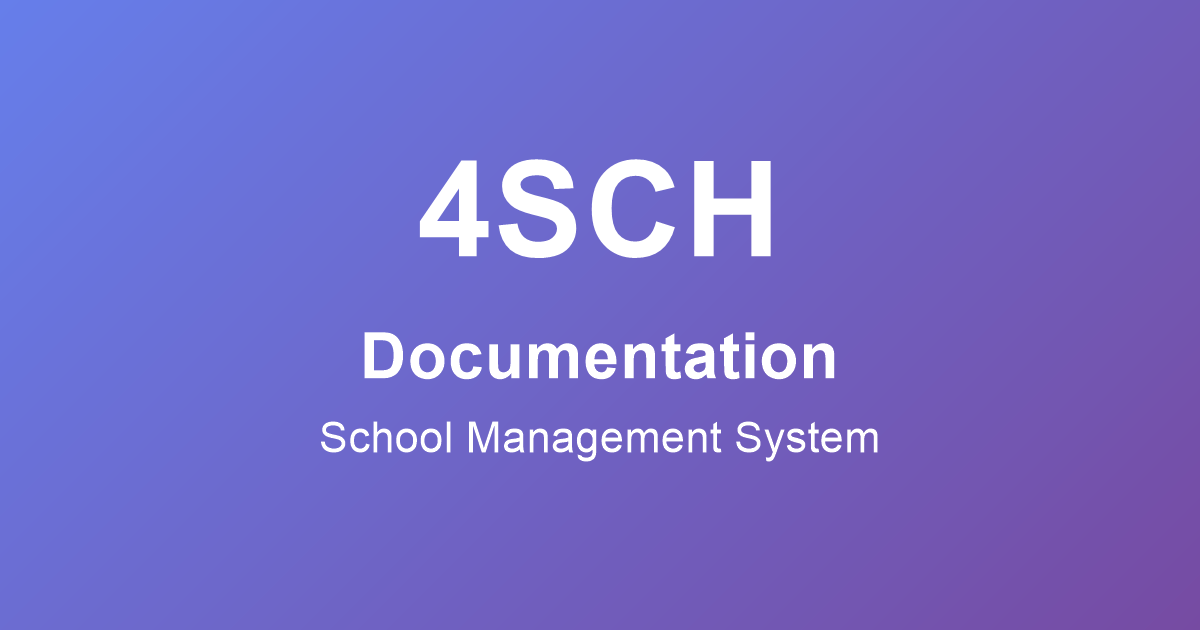
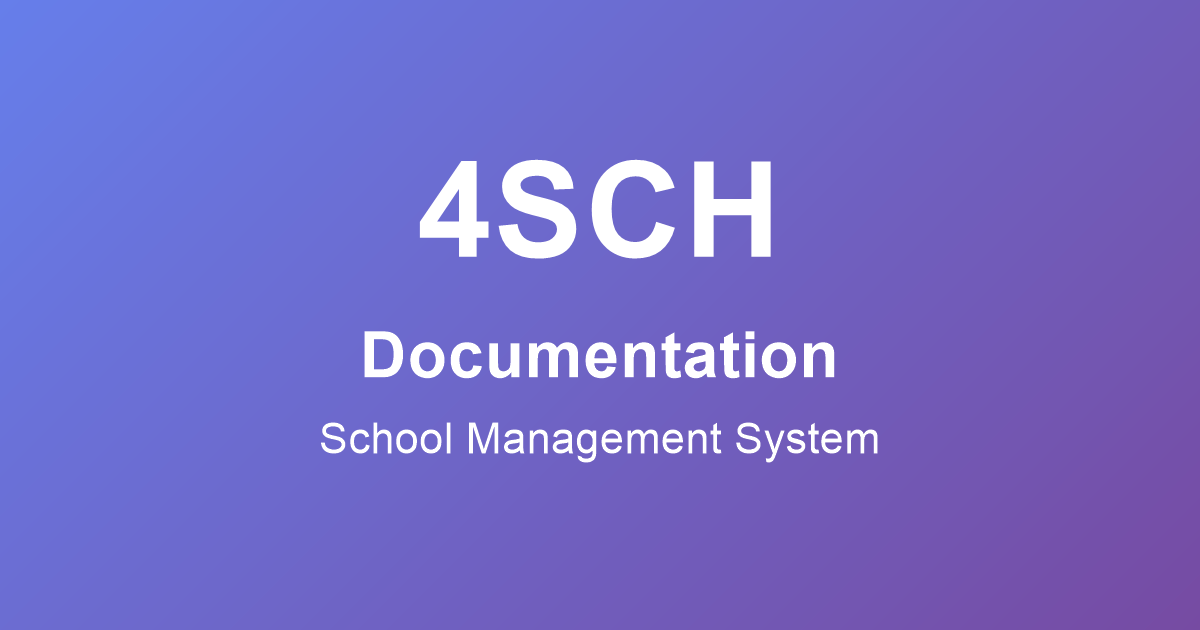
feat: Add responsive OG images for different platforms
- Create multiple OG image sizes for different platforms
- og-image.png (1200x630) - Facebook, LinkedIn
- og-image-twitter.png (1200x600) - Twitter large card
- og-image-square.png (600x600) - WhatsApp, square previews
- og-image-small.png (800x418) - Smaller screens
- Add og:image:secure_url, og:image:type, og:image:alt
- Add twitter:image:alt for accessibility
- Optimized for mobile and desktop viewing

diff --git a/docusaurus.config.js b/docusaurus.config.js
@@ -43,7 +43,28 @@ const config = {
       tagName: 'meta',
       attributes: {
         property: 'og:image',
-        content: 'https://docs.4sch.com/img/logo.svg',
+        content: 'https://docs.4sch.com/img/og-image.png',
+      },
+    },
+    {
+      tagName: 'meta',
+      attributes: {
+        property: 'og:image:secure_url',
+        content: 'https://docs.4sch.com/img/og-image.png',
+      },
+    },
+    {
+      tagName: 'meta',
+      attributes: {
+        property: 'og:image:type',
+        content: 'image/png',
+      },
+    },
+    {
+      tagName: 'meta',
+      attributes: {
+        property: 'og:image:alt',
+        content: '4SCH School Management System Documentation',
       },
     },
     {
@@ -85,7 +106,14 @@ const config = {
       tagName: 'meta',
       attributes: {
         name: 'twitter:image',
-        content: 'https://docs.4sch.com/img/logo.svg',
+        content: 'https://docs.4sch.com/img/og-image-twitter.png',
+      },
+    },
+    {
+      tagName: 'meta',
+      attributes: {
+        name: 'twitter:image:alt',
+        content: '4SCH School Management System Documentation',
       },
     },
     {
@@ -409,7 +437,7 @@ const config = {
       {httpEquiv: 'x-ua-compatible', content: 'IE=edge'},
       {name: 'mobile-web-app-capable', content: 'yes'},
     ],
-    image: 'img/logo.svg',
+    image: 'img/og-image.png',
     algolia: false,
     announcementBar: {
       id: 'support_us',
